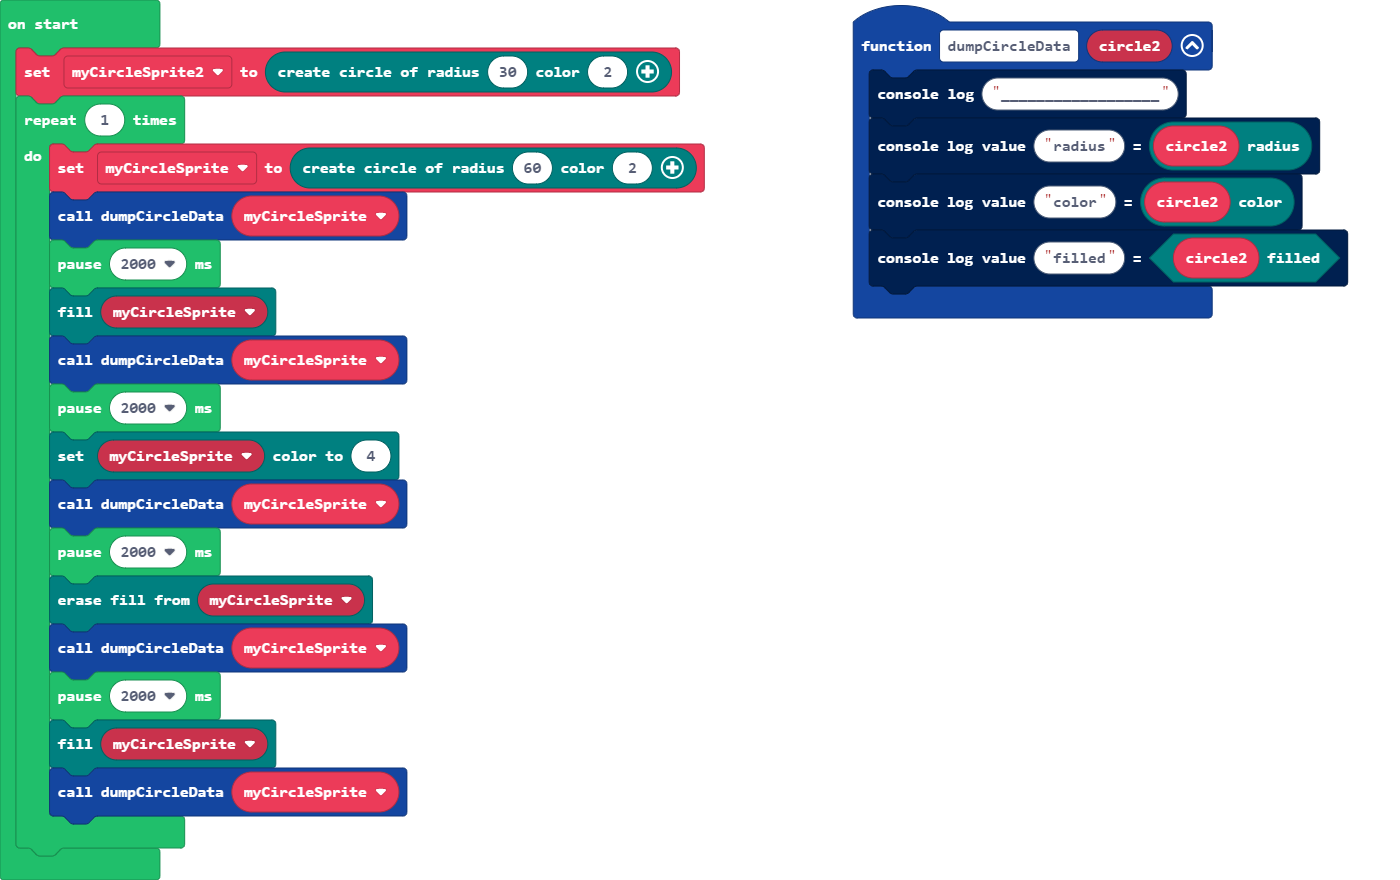
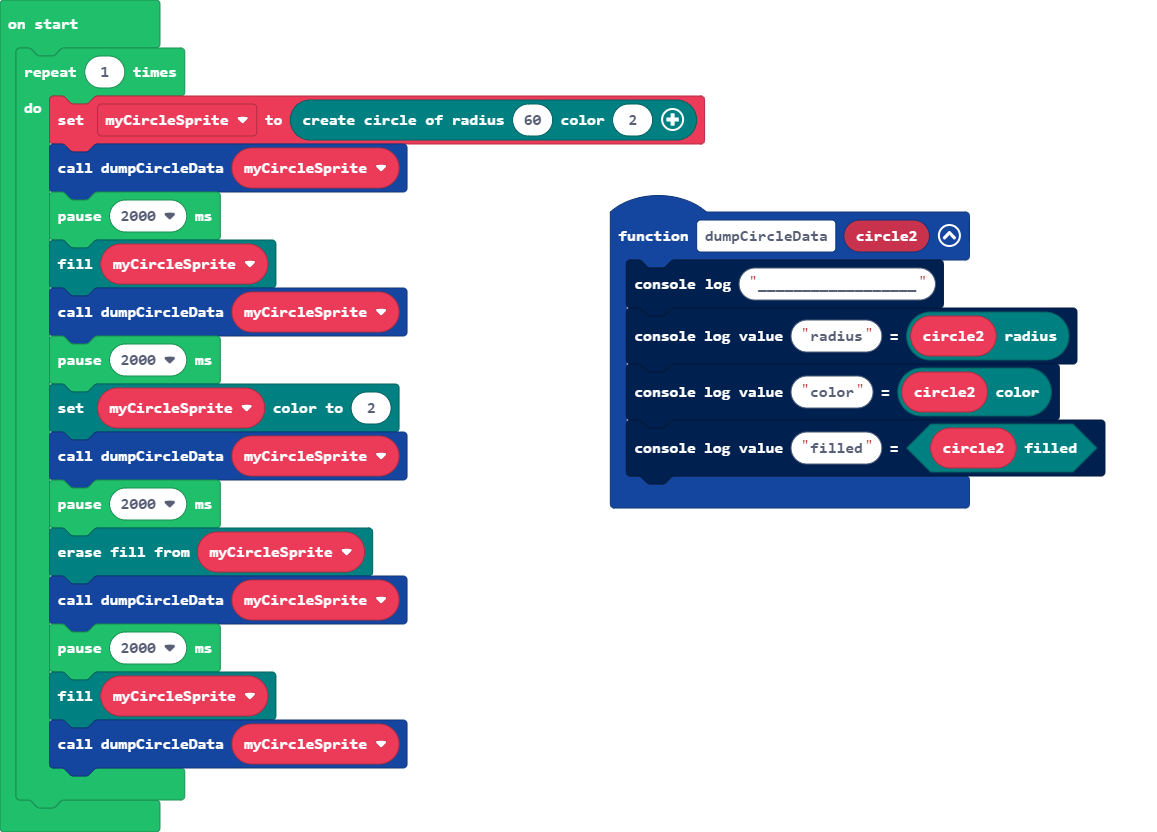
Update pxt.json, main.blocks, main.ts

diff --git a/main.ts b/main.ts
@@ -5,15 +5,14 @@ function dumpCircleData (circle2: Sprite) {
     console.logValue("filled", circle.getFilled(circle2))
 }
 let myCircleSprite: Sprite = null
-let myCircleSprite2 = circle.create(30, 2)
 for (let index = 0; index < 1; index++) {
-    myCircleSprite = circle.create(60, 2)
+    myCircleSprite = circle.createCircle(60, 2)
     dumpCircleData(myCircleSprite)
     pause(2000)
     circle.fill(myCircleSprite)
     dumpCircleData(myCircleSprite)
     pause(2000)
-    circle.setColor(myCircleSprite, 4)
+    circle.setColor(myCircleSprite, 2)
     dumpCircleData(myCircleSprite)
     pause(2000)
     circle.unfill(myCircleSprite)
